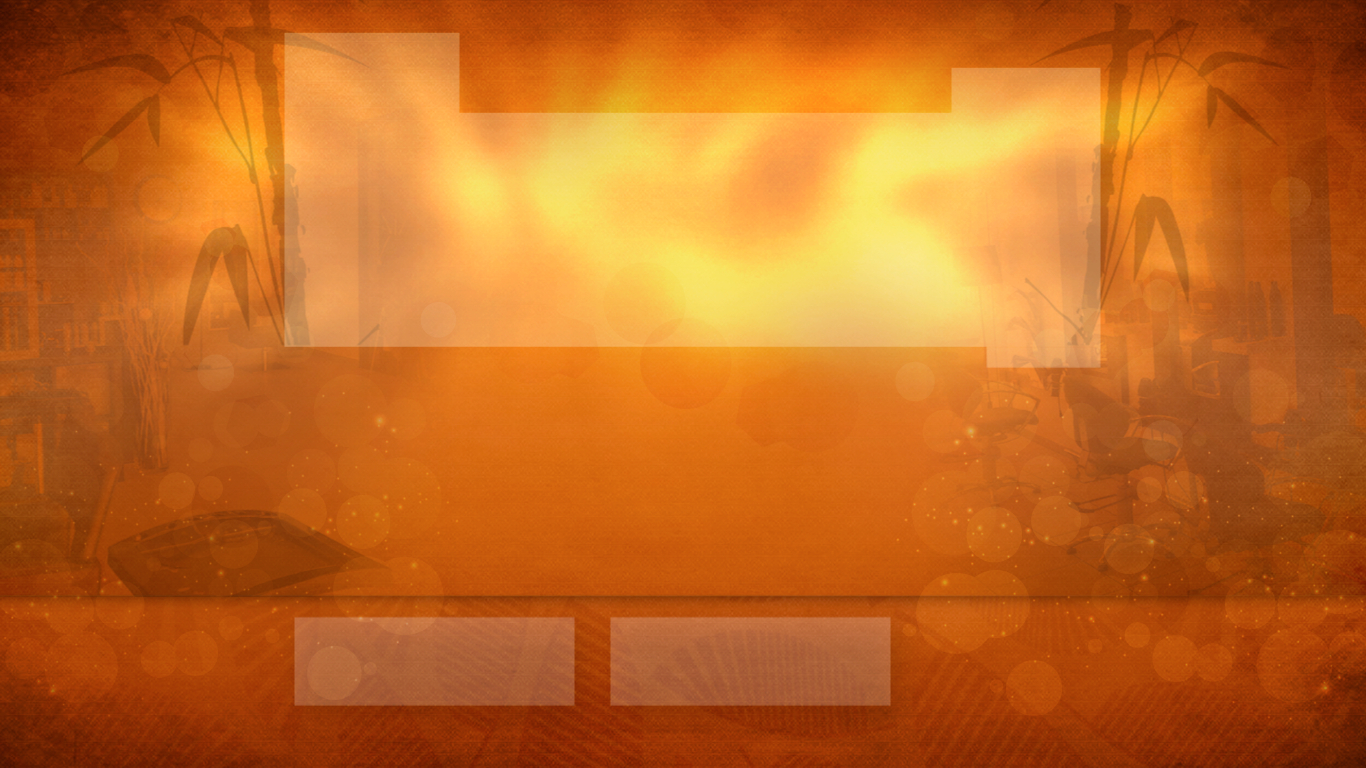
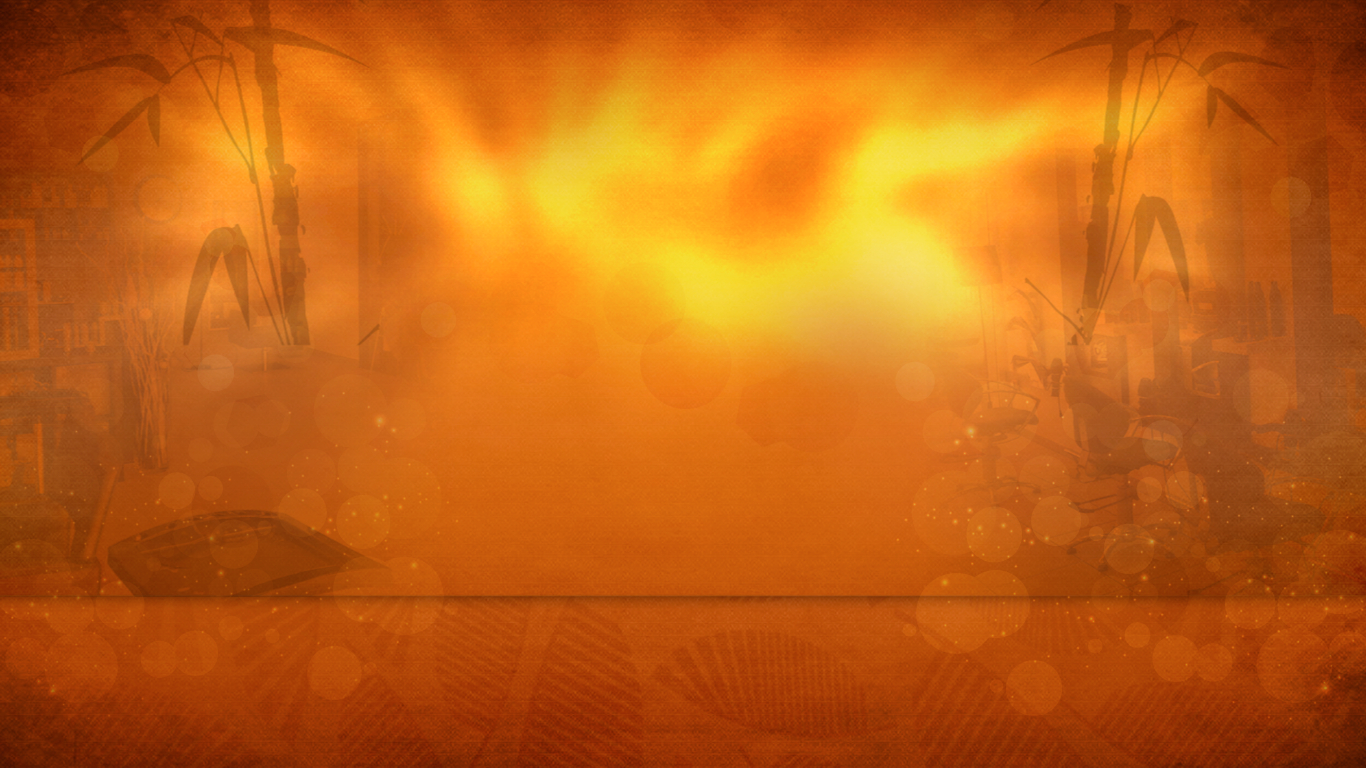
solucionado background dinámico

Changed region(s): [[0.1845, 0.0312, 0.8302, 0.5], [0.2152, 0.7812, 0.6764, 0.9375]]

diff --git a/css/styles.css b/css/styles.css
@@ -3,8 +3,6 @@
     padding: 0px;
 }
 #canvas {
-    /*background: url(../images/web-glamour-house.jpg) no-repeat #a23806;*/
-    background: url(../images/background.jpg) no-repeat #a23806;
     height: 768px;
     margin: 0 auto 0 auto;
     text-align: left;
@@ -53,8 +51,11 @@
     padding-left: 40px;
 }
 
-#options div div {
+#options div {
     cursor: pointer;
+}
+
+#options div div {
     background: url(../images/sprites.png) no-repeat;
     background-position: 18px -52px ;
     width: 132px;
@@ -73,35 +74,30 @@
     background-position: 24px -141px ;
     width: 109px;
     height: 21px;
-    margin: 2px 0 0 0;
 }
 
 #servicios {
     background-position: 47px -115px ;
     width: 98px;
     height: 21px;
-    margin: 2px 0 0 0;
 }
 
 #productos {
     background-position: 42px -168px ;
     width: 100px;
     height: 21px;
-    margin: 3px 0 0 0;
 }
 
 #contactos {
     background-position: 42px -222px ;
     width: 100px;
     height: 21px;
-    margin: 3px 0 0 0;
 }
 
 #ubiquenos {
     background-position: 42px -86px ;
     width: 100px;
     height: 21px;
-    margin: 6px 0 0 0;
 }
 
 #actual {
@@ -166,6 +162,7 @@
 }
 
 #container {
+    text-align: justify;
     height: 252px;
     width: 700px;
 }
@@ -179,7 +176,12 @@
 body {
     background-color: #a23806;
     text-align:center;
-
+    background-image: url(../images/background.jpg);
+    /*background: url(../images/web-glamour-house.jpg) no-repeat fixed #a23806;*/
+    background-repeat: no-repeat;
+    background-attachment: fixed;
+    overflow-y: scroll;
+    background-size: cover;
 }
 
 .sprite {
